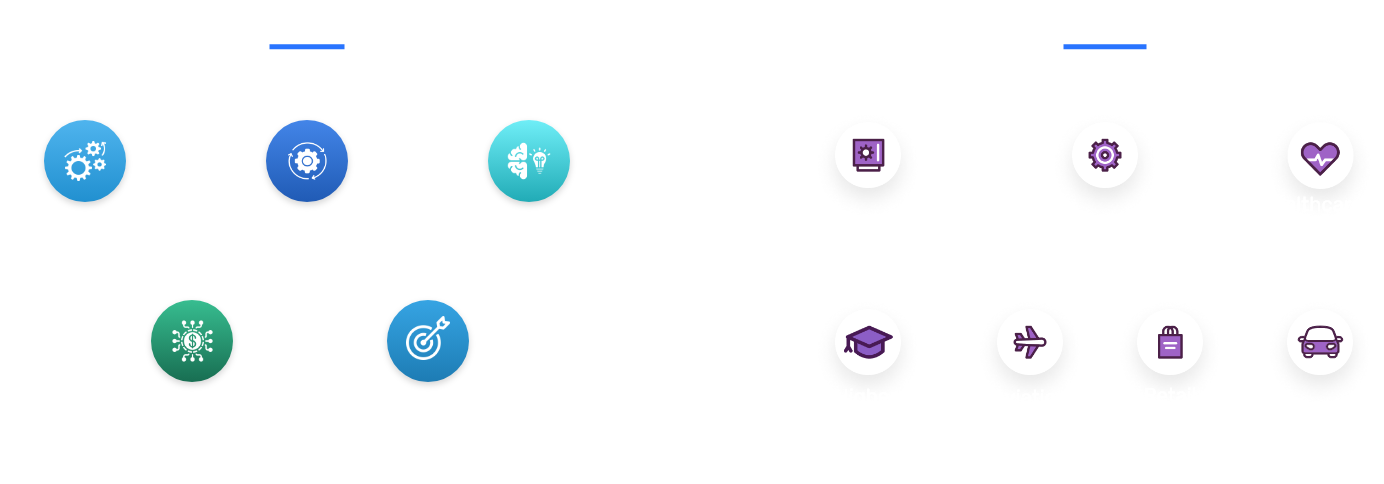
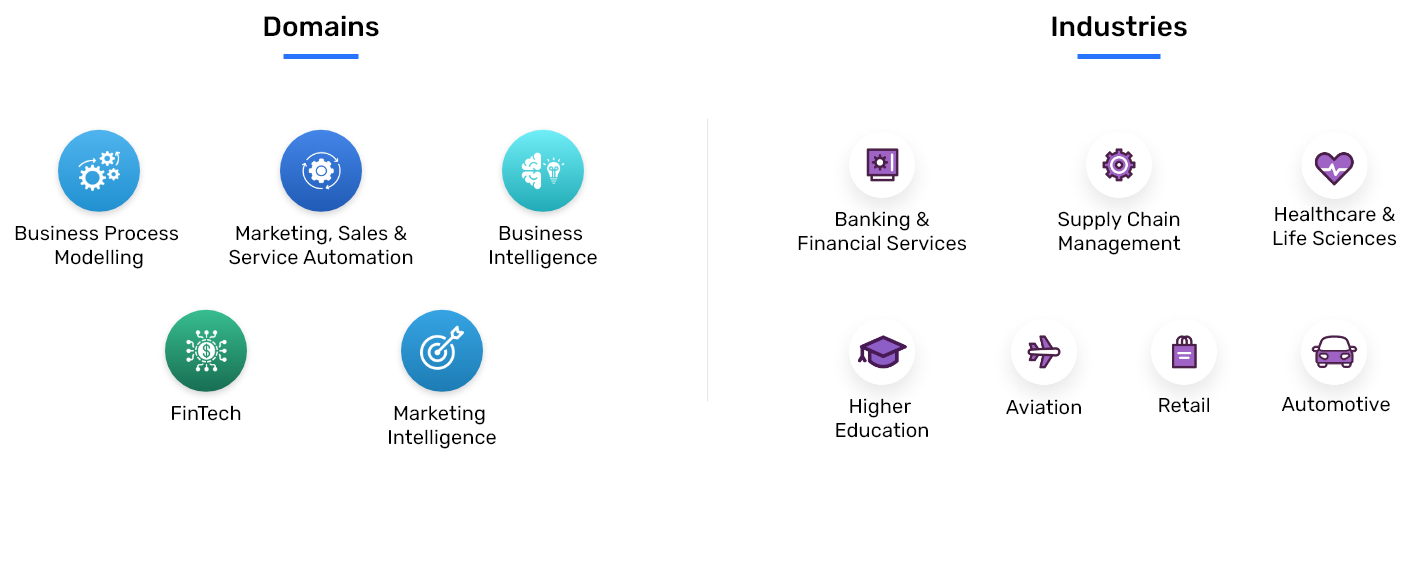
Slide 2 updated

diff --git a/css/style.css b/css/style.css
@@ -244,8 +244,8 @@ top:73px; left:48%; }
 .slide1 h2 .color-blue { color:#4EBEFF; }
 .slide1.jumbotron p { font-weight:400; margin-top: 50px; max-width:50%; font-size:3vh;}
 
-.slide2 { text-align:center; background: rgb(0,57,104); background:url("../images/services-background.jpg");  background-size:cover; position:relative; z-index:-2;}
-.slide2::after { content:''; width:100%; height:100%; position:absolute;  top:0; left:0; background:rgba(0,0,0,0.5); z-index:-1;}
+.slide2 { text-align:center; background: rgb(0,57,104); background:url("../images/slide2-back.png");  background-size:100%; background-position:center bottom; background-repeat:no-repeat;}
+/* .slide2::after { content:''; width:100%; height:100%; position:absolute;  top:0; left:0; background:rgba(0,0,0,0.5); z-index:-1;} */
 .slide2 img { width:90%; }
 
 .slide3 { text-align:center; background:url(../images/salesforce-background.jpg); background-size:100%; background-position:center bottom; background-repeat:no-repeat; background-color:#f1fcff;}
